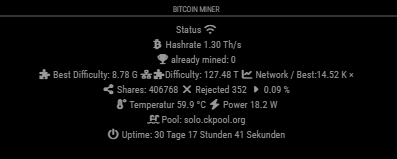
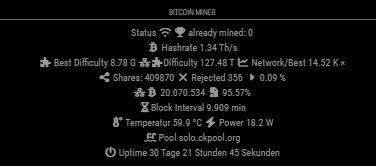
Add bitcoin network information

diff --git a/MMM-Gamma601.js b/MMM-Gamma601.js
@@ -31,10 +31,11 @@ Module.register("MMM-Gamma601", {
 
         const wrapper = document.createElement("div");
 
-     if (!this.dataMiner.online) {
-    wrapper.innerHTML = "Verbinde mit Miner...";
-    return wrapper;
-    }  
+		if (!this.dataMiner.online) 
+			{
+			wrapper.innerHTML = "Verbinde mit Miner...";
+			return wrapper;
+			}  
 
 	const seconds = this.dataMiner.uptime;
 
@@ -57,43 +58,24 @@ Module.register("MMM-Gamma601", {
 	const bestDiffRatio = this.dataMiner.bestDiffRatioFormatted;
 
 
+	const NextBlockInterval = this.dataMiner.NextBlockInterval;
+	
+	const BTCoverall = this.dataMiner.BTCoverall;
+
+
         wrapper.innerHTML = `
             
-			Status ${this.dataMiner.online ? "<i class='fa-solid fa-wifi'></i>" :"<i class='fa-solid fa-bell'></i>"}<br>
+			Status ${this.dataMiner.online ? "<i class='fa-solid fa-wifi'></i>" :"<i class='fa-solid fa-bell'></i>"}   <i class="fa-solid fa-trophy"></i> already mined: ${this.dataMiner.Jackpot}<br>
 			<i class="fa-brands fa-btc"></i> Hashrate ${(this.dataMiner.hashrate /1000).toFixed(2)} Th/s<br>
-			<i class="fa-solid fa-trophy"></i> already mined: ${this.dataMiner.Jackpot}<br>
-			<i class="fa-solid fa-puzzle-piece"></i> Best Difficulty: ${bestDiff} <i class="fa-solid fa-network-wired"></i><i class="fa-solid fa-puzzle-piece"></i>Difficulty: ${networkDifficulty} <i class="fa-solid fa-chart-line"></i> Network / Best:${bestDiffRatio} ×<br>
-            <i class="fa-solid fa-share-nodes"></i> Shares: ${this.dataMiner.shares} <i class="fa-solid fa-xmark"></i> Rejected ${this.dataMiner.rejected} <i class="fa-solid fa-caret-right"></i> ${((this.dataMiner.rejected/this.dataMiner.shares)*100).toFixed(2)} %<br> 
+			<i class="fa-solid fa-puzzle-piece"></i> Best Difficulty ${bestDiff} <i class="fa-solid fa-network-wired"></i><i class="fa-solid fa-puzzle-piece"></i>Difficulty ${networkDifficulty} <i class="fa-solid fa-chart-line"></i> Network/Best ${bestDiffRatio} ×<br>
+			<i class="fa-solid fa-share-nodes"></i> Shares: ${this.dataMiner.shares} <i class="fa-solid fa-xmark"></i> Rejected ${this.dataMiner.rejected} <i class="fa-solid fa-caret-right"></i> ${((this.dataMiner.rejected/this.dataMiner.shares)*100).toFixed(2)} %<br> 
+			<i class="fa-solid fa-network-wired"></i><i class="fa-brands fa-btc"></i> ${Number(BTCoverall).toLocaleString("de-DE")}    <i class="fa-solid fa-file-fragment"></i> ${((BTCoverall/21000000)*100).toFixed(2)}%<br>
+			<i class="fa-solid fa-hourglass-half"></i>Block Interval ${(NextBlockInterval).toFixed(3)} min<br>
 			<i class="fa-solid fa-temperature-high"></i> Temperatur ${this.dataMiner.temp.toFixed(1)} °C <i class="fa-solid fa-bolt"></i> Power ${this.dataMiner.power.toFixed(1)} W<br>
-            <i class="fa-solid fa-water-ladder"></i> Pool: ${this.dataMiner.pool}<br>
-            <i class="fa-solid fa-power-off"></i> Uptime: ${uptimeText} ${sekunden} Sekunden<br>		
-        `;
-
-
+            <i class="fa-solid fa-water-ladder"></i> Pool ${this.dataMiner.pool}<br>
+            <i class="fa-solid fa-power-off"></i> Uptime ${uptimeText} ${sekunden} Sekunden<br>		
+			
+		`;
         return wrapper;
     }
 });
-/*
-function formatDifficulty(value) {
-    const units = ['', 'K', 'M', 'G', 'T', 'P', 'E'];
-    let unitIndex = 0;
-
-    while (value >= 1000 && unitIndex < units.length - 1) {
-        value /= 1000;
-        unitIndex++;
-    }
-
-    return `${value.toFixed(2)} ${units[unitIndex]}`;
-}
-
-async function getNetworkDifficulty() {
-    try {
-        const response = await fetch("https://blockchain.info/q/getdifficulty");
-        const difficulty = await response.json();
-
-        return difficulty;
-    } catch (error) {
-        console.error("Fehler beim Abrufen der Netzwerk-Difficulty:", error);
-        return null;
-    }
-}*/

diff --git a/node_helper.js b/node_helper.js
@@ -43,6 +43,44 @@ async function getNetworkDifficulty() {
     }
 }
 
+async function getInterval() {
+    try {
+        const response = await axios.get(
+            "https://blockchain.info/q/interval"
+        );
+		response.data = response.data / 60;	
+		
+        return response.data;
+
+    } catch (error) {
+        console.error(
+            "Fehler beim Abrufen der Zeit zwischen 2 Blöcken",
+            error.message
+        );
+
+        return null;
+    }
+}
+
+async function getBTCoverall() {
+    try {
+        const response = await axios.get(
+            "https://blockchain.info/q/totalbc"
+        );
+		
+		response.data = response.data/ 100000000;
+				
+        return response.data;
+
+    } catch (error) {
+        console.error(
+            "Fehler beim Abrufen der absoluten BTC",
+            error.message
+        );
+
+        return null;
+    }
+}
 
 
 module.exports = NodeHelper.create({
@@ -66,7 +104,6 @@ module.exports = NodeHelper.create({
             const d = response.data;
 
 
-
             // Netzwerk-Difficulty abrufen
             const networkDifficulty = await getNetworkDifficulty();
 
@@ -80,25 +117,27 @@ module.exports = NodeHelper.create({
                     : "N/A";
 
 
-			const bestDiffRatioFormatted =  formatDifficulty(networkDifficulty / d.bestDiff);
+					
+			let bestDiffRatio = null;
+			let bestDiffRatioFormatted = "N/A";
+
+			const bestDiff = Number(d.bestDiff);
+			const netDiff = Number(networkDifficulty);
+
+			if (Number.isFinite(bestDiff) && Number.isFinite(netDiff) && bestDiff > 0 && netDiff > 0) 
+				{			
+				bestDiffRatio =  netDiff / bestDiff;
+				bestDiffRatioFormatted = formatDifficulty(bestDiffRatio);
+				}
+
+
+			//Wie groß ist die Blockintervallzeit
+            const NextBlockInterval= await getInterval();
+			
+			//wieviele BTC sind im Umlauf
+			const BTCoverall = await getBTCoverall();
 			
 			
-let bestDiffRatio = null;
-
-const bestDiff = Number(d.bestDiff);
-const netDiff = Number(networkDifficulty);
-
-if (
-    Number.isFinite(bestDiff) &&
-    Number.isFinite(netDiff) &&
-    netDiff > 0
-) {
-    bestDiffRatio =  netDiff / bestDiff;
-}
-
-
-//neu ende
-
 
 this.sendSocketNotification("GAMMA_DATA", {
 
@@ -134,12 +173,14 @@ this.sendSocketNotification("GAMMA_DATA", {
 
     bestDiff: d.bestDiff,
 	
- // Neue Werte
+ 
     bestDiffFormatted: bestDiffFormatted,
     networkDifficulty: networkDifficulty,
     networkDifficultyFormatted: networkDifficultyFormatted,
     bestDiffRatio: bestDiffRatio,
-	bestDiffRatioFormatted: bestDiffRatioFormatted
+	bestDiffRatioFormatted: bestDiffRatioFormatted,
+	NextBlockInterval: NextBlockInterval,
+	BTCoverall : BTCoverall
 	
 	
 
